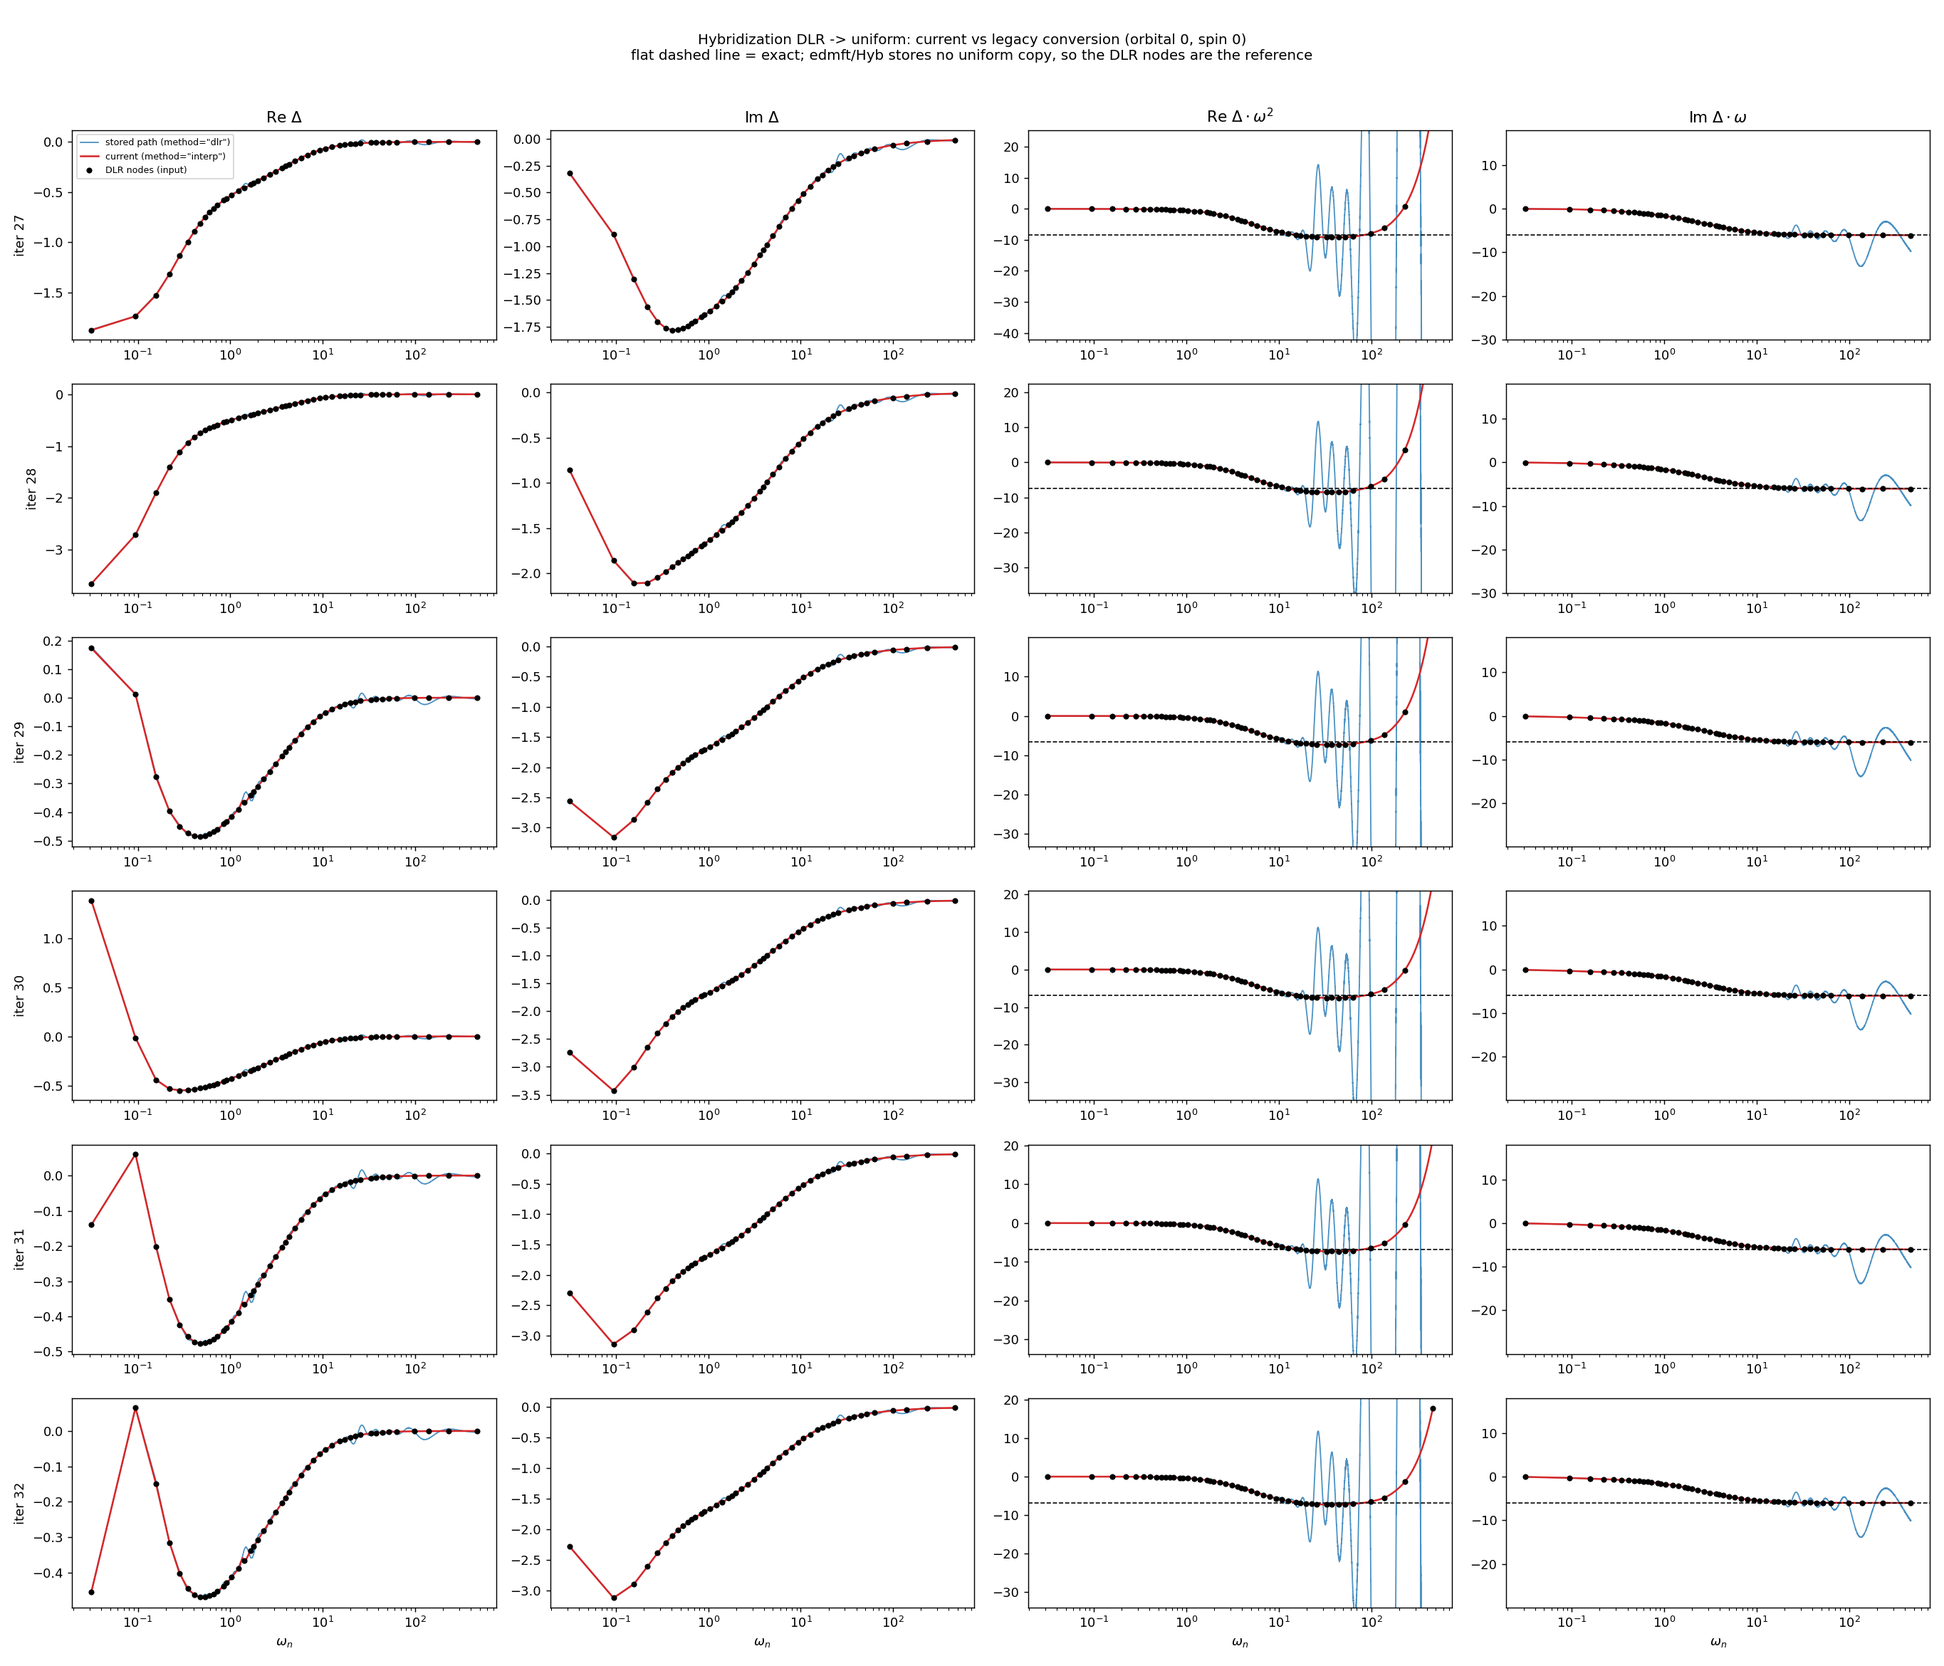
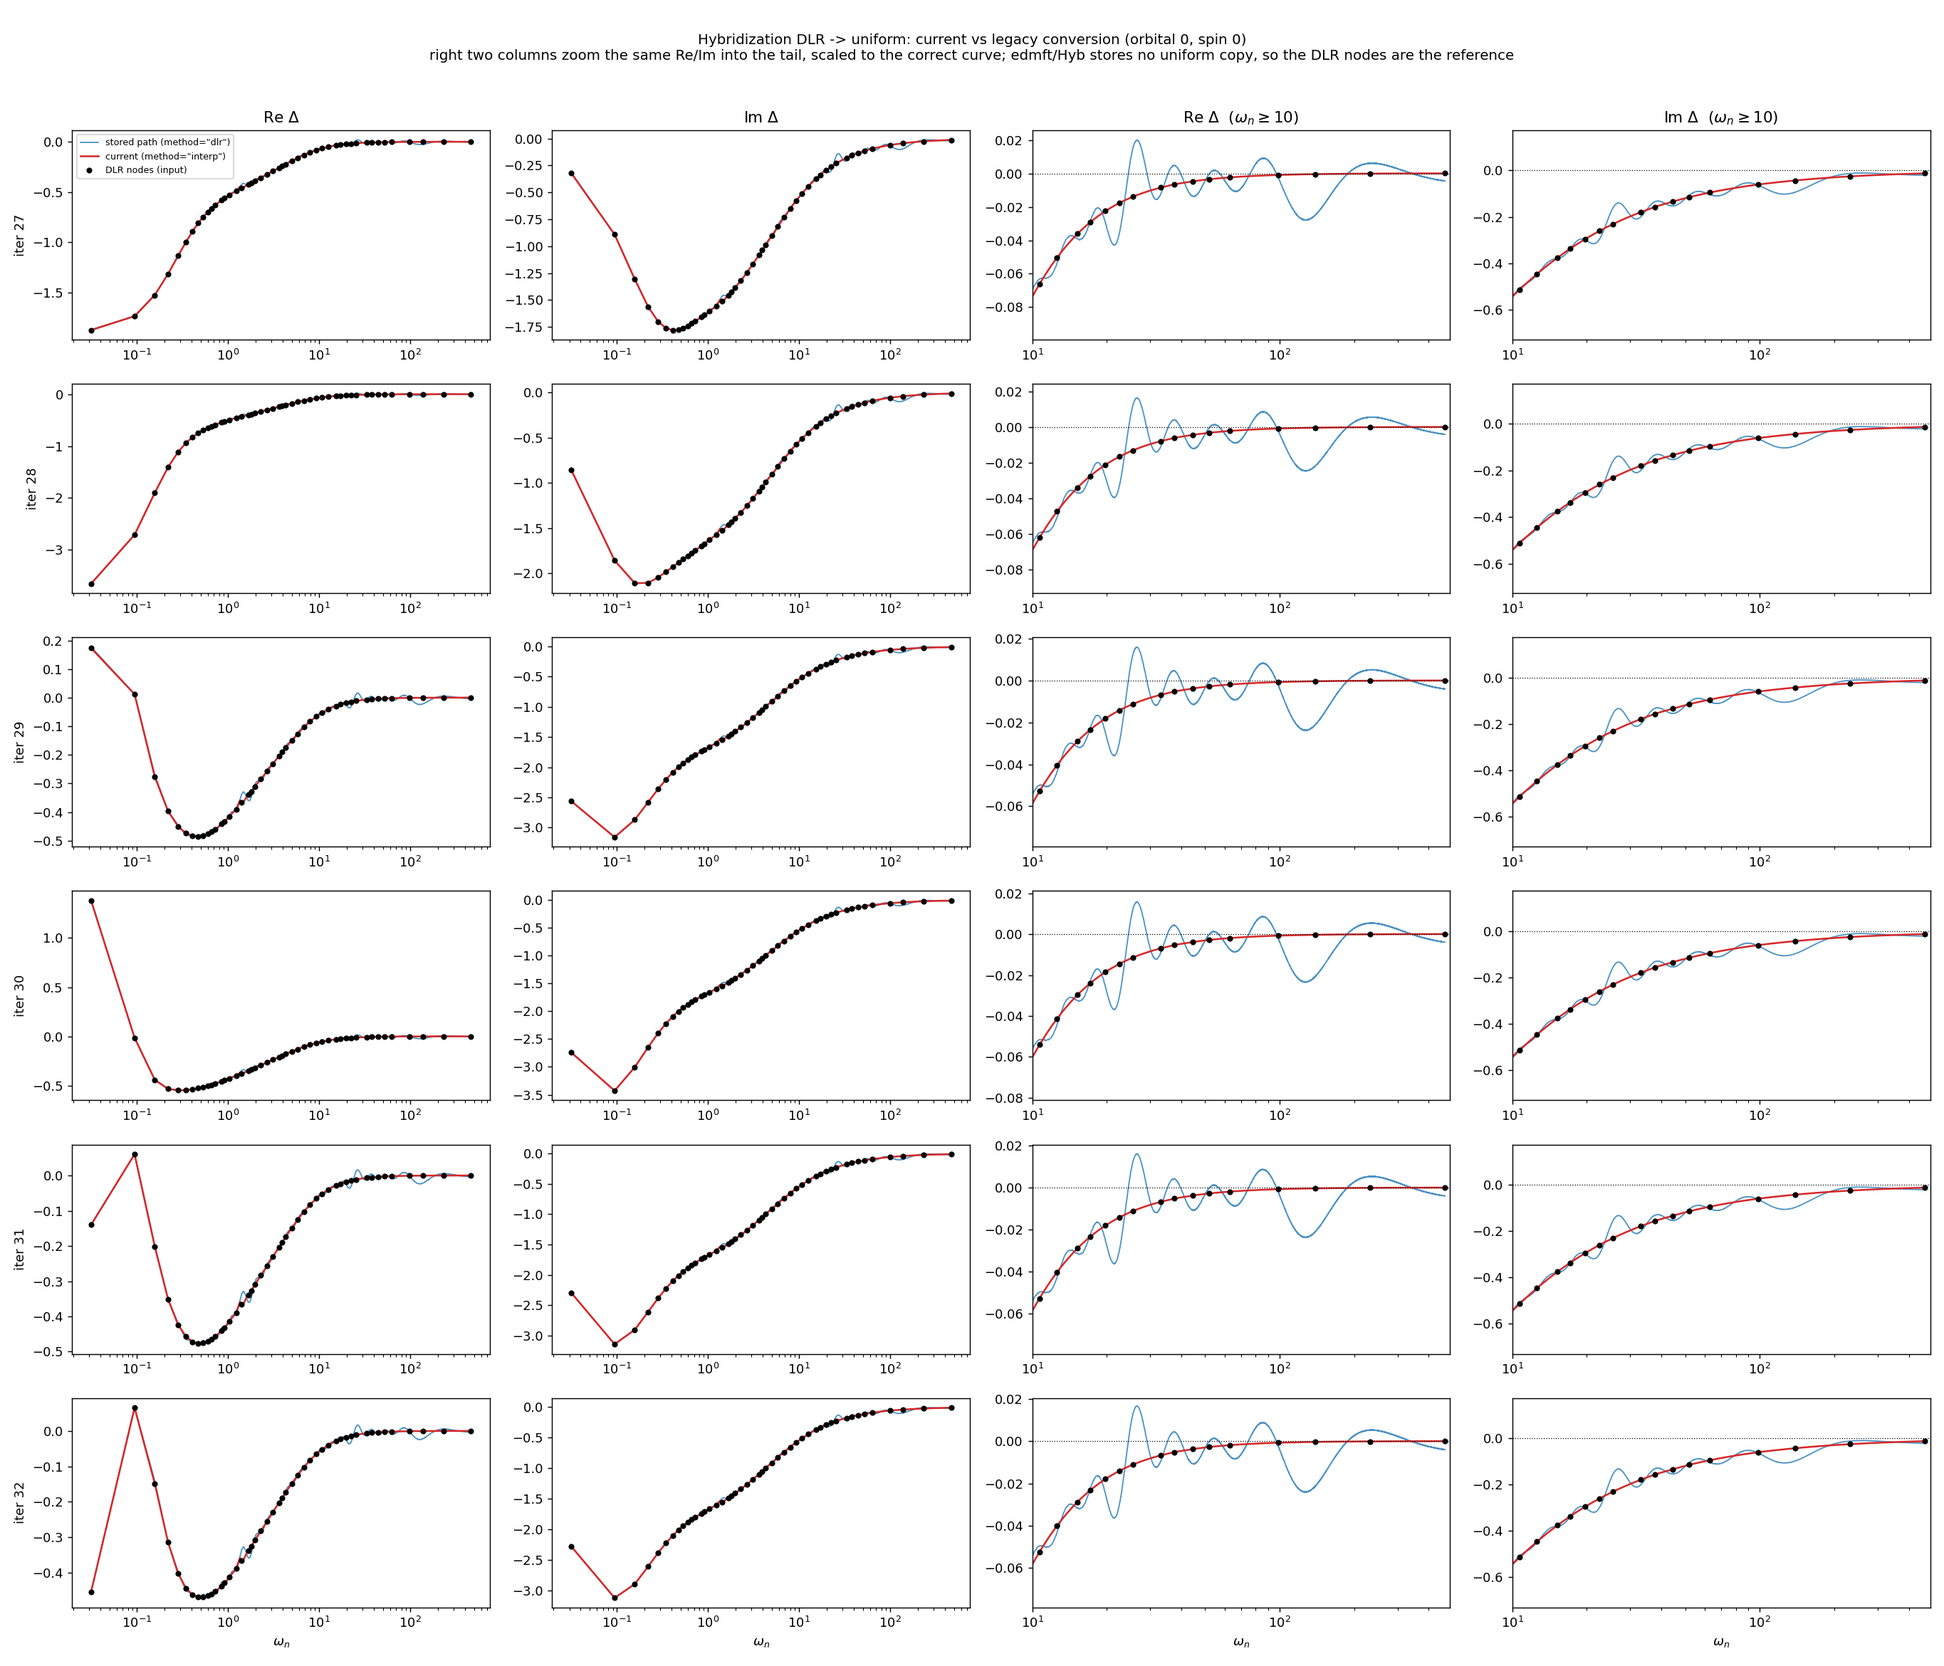
docs(dlr): plot DLR->uniform hybridization, current vs legacy conversion Adds plot_hyb_dlr_vs_uniform.py, which reads iterations 27-32 from glob.h5 and converts the DLR-grid hybridization onto the uniform grid with both method=interp (current) and method=dlr (legacy), overlaying the DLR nodes both a

diff --git a/docs/plot_hyb_dlr_vs_uniform.py b/docs/plot_hyb_dlr_vs_uniform.py
@@ -6,11 +6,11 @@ DLR-grid hybridization onto the uniform Matsubara grid with the current
 implementation (``method="interp"``) and with the legacy path
 (``method="dlr"``), overlaying the DLR nodes that both are built from.
 
-Real and imaginary parts are both plotted, in two forms:
-
-* raw ``Re/Im Delta`` on a log frequency axis;
-* the tail-compensated products ``Re Delta * w**2`` and ``Im Delta * w``, which
-  are constants for a decaying hybridization, so any structure is error.
+Real and imaginary parts are both plotted twice: over the full frequency range,
+and zoomed into the tail (``--zoom``, default w >= 10).  The zoomed axes are
+scaled to the corrected curve, so the legacy excursions leave the panel rather
+than compressing the signal into a flat line -- past w ~ 20 the legacy error
+(Re 2.7e-2) is larger than Re(Delta) itself (1.8e-2).
 
 ``edmft/Hyb`` stores **no** ``_uniform`` datasets, so the honest reference is
 the DLR nodes themselves -- the input both paths must reproduce. Where a stored
@@ -68,6 +68,8 @@ def main():
     ap.add_argument("--spin", type=int, default=0)
     ap.add_argument("--with-sigma", action="store_true",
                     help="also compare against stored sigimp *_uniform data")
+    ap.add_argument("--zoom", type=float, default=10.0,
+                    help="lower frequency bound for the zoomed Re/Im panels")
     ap.add_argument("--out", default=os.path.join(_REPO, "docs", "hyb_dlr_vs_uniform.png"))
     ap.add_argument("--out-sigma",
                     default=os.path.join(_REPO, "docs", "sigma_stored_vs_current.png"))
@@ -112,16 +114,17 @@ def main():
         n = len(rows)
         fig, axes = plt.subplots(n, 4, figsize=(21, 3.0 * n), squeeze=False)
 
+        # Columns 1-2 are the full range; 3-4 zoom the same Re/Im into the high
+        # frequency region.  Beyond w~20 the legacy error (Re 2.7e-2) exceeds the
+        # signal itself (Re 1.8e-2), which the full-range axes cannot show.
         for r, (it, node, new, old) in enumerate(rows):
             panels = [
                 ("Re $\\Delta$", new.real, old.real, node.real, None),
                 ("Im $\\Delta$", new.imag, old.imag, node.imag, None),
-                ("Re $\\Delta\\cdot\\omega^2$",
-                 new.real * w_uni**2, old.real * w_uni**2,
-                 node.real * w_node**2, "const"),
-                ("Im $\\Delta\\cdot\\omega$",
-                 new.imag * w_uni, old.imag * w_uni,
-                 node.imag * w_node, "const"),
+                (f"Re $\\Delta$  ($\\omega_n \\geq {args.zoom:g}$)",
+                 new.real, old.real, node.real, "zoom"),
+                (f"Im $\\Delta$  ($\\omega_n \\geq {args.zoom:g}$)",
+                 new.imag, old.imag, node.imag, "zoom"),
             ]
             for c, (title, yn, yo, ynode, mode) in enumerate(panels):
                 ax = axes[r][c]
@@ -136,10 +139,17 @@ def main():
                     ax.set_title(title)
                 if c == 0:
                     ax.set_ylabel(f"iter {it}")
-                if mode == "const":
-                    ref = float(np.median(ynode[pos][-8:]))
-                    ax.axhline(ref, color="k", ls="--", lw=0.9)
-                    ax.set_ylim(ref - 4 * abs(ref), ref + 4 * abs(ref))
+                if mode == "zoom":
+                    ax.set_xlim(args.zoom, w_uni.max() * 1.05)
+                    # Scale to the *correct* curve plus its nodes, so the legacy
+                    # excursions run off-panel instead of flattening the signal.
+                    m = w_uni >= args.zoom
+                    mn = (w_node >= args.zoom) & pos
+                    ref = np.concatenate([yn[m], ynode[mn]])
+                    lo, hi = float(ref.min()), float(ref.max())
+                    pad = 0.35 * max(hi - lo, 1.0e-12)
+                    ax.set_ylim(lo - pad, hi + pad)
+                    ax.axhline(0.0, color="k", ls=":", lw=0.7)
                 if r == n - 1:
                     ax.set_xlabel(r"$\omega_n$")
                 if r == 0 and c == 0:
@@ -148,8 +158,9 @@ def main():
         fig.suptitle(
             "Hybridization DLR -> uniform: current vs legacy conversion "
             f"(orbital {io}, spin {so})\n"
-            "flat dashed line = exact; edmft/Hyb stores no uniform copy, so the "
-            "DLR nodes are the reference",
+            "right two columns zoom the same Re/Im into the tail, scaled to the "
+            "correct curve; edmft/Hyb stores no uniform copy, so the DLR nodes "
+            "are the reference",
             fontsize=11,
         )
         fig.tight_layout(rect=(0, 0, 1, 0.97))

diff --git a/docs/DLR2Uniform_fix_report.md b/docs/DLR2Uniform_fix_report.md
@@ -1,0 +1,216 @@
+# DLR→uniform Matsubara 변환 수정 보고서
+
+**대상 브랜치:** `DLR_GW_EDMFT`
+**커밋 범위:** `d135cf1` … `83bb232` (4개)
+**작성일:** 2026-07-28
+
+---
+
+## 1. 문제
+
+`ctqmc/impurity_32_1/hyb.json`의 hybridization 실수부가 고주파에서 0으로 수렴하지
+않았다.
+
+| 항목 | 관측 | 정확값 |
+|---|---|---|
+| `Im Δ·ω` | -6.04로 수렴 | -6.04 (정상) |
+| `Re Δ` (ω≈187) | 부호 반전, +2.4e-4까지 상승 | 음수 |
+| `Re Δ` (ω=460) | +1.3e-4 잔류 | `-7.64/ω² = -3.6e-5` |
+
+---
+
+## 2. 원인 규명
+
+### 2.1 입력 데이터는 정상이었다
+
+`glob.h5`에 저장된 `GLoc`, `EImp`, `SigCImp`, `SigHImp`, `SigFImp`로 Dyson 식을
+직접 재구성해 DLR 노드에서의 raw Δ를 얻었다.
+
+```
+Re Δ·ω²  =  -7.43  -7.38  -7.52  -7.55  -7.58  -7.62  -7.74  -7.64  -7.77
+            (ω = 33 … 464, 정확값 -7.64인 상수)
+```
+
+노드는 깨끗하다. **오염은 상류가 아니다.**
+
+### 2.2 변환 자체가 원인
+
+그 *깨끗한 배열*을 `MatsubaraDLR2UniformGrid`에 그대로 넣었을 때:
+
+```
+Re Δ·ω²  =  -1.2   +344   +3538   -1328   -895   +6280   +10475
+            (ω = 50 … 460)
+```
+
+3자릿수 오차가 **변환 단계에서만** 주입된다.
+
+기전은 노드→계수 LU 해에서의 catastrophic cancellation이다. 계수 노름이
+`sum|c| = 6.0e+14`까지 폭발하고, 상쇄 후 남은 반올림 잡음이 결과를 지배한다.
+그 결과 변환은 **자기 입력 노드조차 재현하지 못한다** — 실데이터 기준 노드 오차
+3.12, ω=138.89에서 실제 값 2.8e-4가 부호까지 뒤집힌다.
+
+> **주의할 지표:** `cond(dlrmf2cf) = 8.91e+05`는 낮아 보이지만 이는 재스케일된
+> 다른 계이며 정확도를 지배하지 않는다. 이 숫자로 LU 경로가 건전하다고 결론
+> 내리면 안 된다. DLR로 정확히 표현 가능한 입력에서 계수 복원 상대오차는 **0.999**
+> (복원 `sum|c|` 19725 vs 참값 75)였다.
+
+### 2.3 하류 전파 경로
+
+```
+Hyb.Cal  →  UniformGrid()  →  CausalProjection(grid="uniform")
+             (깨진 변환)         └─ tail fit 창 = 상위 1 decade
+```
+
+`Fourier._tail_fit_indices`가 고르는 창을 측정하니 **[46.46, 464.61]** — 손상
+구간 전체와 정확히 겹친다. 여기서 fit된 상수항 `c0`가 0 대신 ~+1.2e-4로 나오고,
+projector가 이를 결과에 상수 offset으로 재삽입한다. 해당 구간 `Re Δ`는 3.6e-5라
+압도당하고, `Im Δ`는 1e-2라 상대적으로 살아남았다.
+
+---
+
+## 3. 수정 내용
+
+### 3.1 방식
+
+DLR 계수를 **전혀 만들지 않고** 노드값에서 uniform grid로 직접 보간한다.
+
+1. **Hermitian folding** — `f(-ω) = conj(f(ω))`로 음수 노드를 양수축에 반사
+2. **변수 변환** — `u = 1/ω` (tail이 이 변수에서 저차 다항식)
+3. **Re/Im 독립 보간** — 실수부·허수부를 분리해 각각 cubic spline
+
+### 3.2 folding이 필수인 이유
+
+양수 노드만 쓰는 것은 틀린다. `MatsubaraFermionUniform`이 grid 크기를 **부호 있는**
+극값에서 정하기 때문에([DLR.py:50](../src/QAssemble/utility/DLR.py#L50)), uniform grid가
+최대 양수 노드를 넘어갈 수 있다.
+
+| beta/cutoff | 최대 양수 노드 | uniform 최대 | 외삽 |
+|---|---|---|---|
+| 100/300 (프로덕션) | 464.610 | 464.610 | 없음 |
+| **20/8 (테스트 fixture)** | 6.440 | 11.153 | **73% 초과** |
+| 10/10 | 11.624 | 19.164 | 발생 |
+| 200/400 | 300.886 | 564.214 | 발생 |
+
+**5개 중 4개가 외삽**하며 프로덕션이 예외다. `np.interp`는 clamp하므로 양수 전용
+구현은 조용히 평평한 직선을 반환한다. folding은 관계식이 오차 0.00e+00으로
+정확히 성립하며, 커버리지를 복원하고 사용 가능 노드를 47→81로 늘린다.
+
+folding은 **래퍼에서** 수행한다. 행렬 값 관계는 `G(-iω) = G(iω)†`(켤레 + 전치)인데
+평탄화된 코어에는 궤도축이 없어 전치가 불가능하기 때문이다.
+
+### 3.3 API
+
+```python
+MatsubaraDLR2UniformGrid(ff, sign=-1, method="interp")   # 기본값
+MatsubaraDLR2Uniform(ff, sign=-1, method="dlr")          # 기존 경로 유지
+```
+
+`method="dlr"`을 남긴 이유는 **잘 조건화된 설정에서는 기존 경로가 여전히
+기계정밀도로 정확**하기 때문이다(테스트 fixture cond 2.5e+12 vs 프로덕션 3.0e+17).
+삭제가 아니라 보존이 옳은 판단이었다.
+
+### 3.4 변경하지 않은 것
+
+`Fourier._tail_fit_indices`는 **의도적으로 손대지 않았다.** 창이 잘못 고른 게
+아니라 손상된 값을 읽고 있었을 뿐이다. 변환이 고쳐지면 같은 창이 정상 데이터를
+fit한다.
+
+---
+
+## 4. 검증 결과
+
+### 4.1 실데이터 (iterations 27–32, tail window [46, 231])
+
+| iter | 기존 `Re Δ·ω²` 범위 | 현재 `Re Δ·ω²` 범위 | 노드오차 기존/현재 |
+|---|---|---|---|
+| 27 | [-485.1, +330.3] | [-9.17, +0.81] | 7.6e-02 / 2e-16 |
+| 28 | [-426.6, +302.4] | [-8.46, +3.54] | 7.5e-02 / 5e-16 |
+| 29 | [-411.7, +278.2] | [-7.32, +0.98] | 7.9e-02 / 4e-16 |
+| 30 | [-405.8, +292.4] | [-7.54, -0.18] | 7.9e-02 / 4e-16 |
+| 31 | [-409.3, +288.2] | [-7.30, -0.43] | 7.9e-02 / 4e-16 |
+| 32 | [-416.8, +284.4] | [-7.29, -1.34] | 7.9e-02 / 4e-16 |
+
+정확값은 **-7.64 상수**. 현재 경로는 노드를 **기계정밀도**로 통과한다.
+
+### 4.2 새로 드러난 사실 — `Im`도 오염되어 있었다
+
+노드 재현 오차를 Re/Im으로 분리하면:
+
+| | 기존 Re | 기존 Im | 현재 Re | 현재 Im |
+|---|---|---|---|---|
+| 최악값 (27–32) | 3.7e-02 | **7.6e-02** | 2.2e-16 | 4.4e-16 |
+
+**`Im`의 절대 오차가 `Re`보다 2배 이상 컸다.** 원래 진단에서 "Im은 무사"로 본 것은
+`Im Δ` 자체가 1e-2로 커서 상대적으로 가려졌기 때문이다. 초기 판단을 이 지점에서
+정정한다.
+
+### 4.3 테스트
+
+```
+255 passed, 2 failed
+```
+
+실패 2건은 `test_method_impurity_action.py`의 기존 실패로 이번 변경과 무관하다
+(baseline 247 passed + 동일한 2 failed). 신규 테스트 8건 추가.
+
+보손 출력은 모든 `method` 값에서 **bit-identical**(`max diff: 0.0`)로 확인했다.
+
+---
+
+## 5. 커밋 구성
+
+| 커밋 | 내용 |
+|---|---|
+| `d135cf1` | `_interp_to_grid`에 `variable`/`kind` 추가(기본값은 기존 동작 보존), `_fold_to_nonnegative` 헬퍼. 순수 추가 |
+| `6b2e99f` | `method="interp"` 기본 전환 + 신규 테스트 8건 |
+| `8df8b6e` | 진단 스크립트에 출시 경로 추가 |
+| `83bb232` | Re/Im 비교 plot 스크립트 + 그림 2장 |
+
+총 8 files, +1199 / -17.
+
+---
+
+## 6. 남은 작업
+
+### 6.1 보손 경로 (우선순위 높음)
+
+- **조건수 3.22e+18** — 페르미온(2.96e+17)보다 나쁘다
+- 현재 bit-identical로 **미수정 상태**
+- `ν=0`이 노드·uniform grid 양쪽에 실재해 `1/ω`가 발산 → 시프트 변수
+  `1/(ω+ω₀)`, `ω₀=2π/beta` 필요
+- 영향 경로: `BWeiss.Cal`([BLocDyn.py:1274](../src/QAssemble/BLocDyn.py#L1274)),
+  `Chi.Cal`(:972), `PImp.Mixing`(:1151), `WImp.Cal`(:1398)
+- **`dyn.json`이 CTQMC 입력이므로 solver 입력이 바뀐다** — 진단 필요
+
+### 6.2 회귀 방어의 한계
+
+신규 테스트는 합성 데이터(DLR로 정확히 표현 가능한 다중극)에서는 **기존 경로도
+통과한다.** 실제 판별력은 `glob.h5`의 진짜 self-energy에서만 나온다(노드오차
+3.12 vs 0.03). 실데이터 회귀를 막으려면
+[docs/compare_dlr2uniform.py](compare_dlr2uniform.py)를 CI에 넣는 것이 확실하다.
+
+### 6.3 검토 대상
+
+- `constraint_tol="auto"` 분기([FLocDyn.py:1364](../src/QAssemble/FLocDyn.py#L1364),
+  [BLocDyn.py:1279](../src/QAssemble/BLocDyn.py#L1279)) — 두 주석 모두 "보간 잡음이
+  1e-8 기본값을 초과"를 근거로 든다. 정확도가 크게 개선됐으므로 이제 불필요하게
+  느슨할 수 있다
+- `eps=1e-15` 기본값([DLR.py:21](../src/QAssemble/utility/DLR.py#L21)) — rank 95와
+  1e17 조건수를 만드는 원인. 이번 버그의 우회책이 아니라 **독립적 설계 결정**으로
+  재검토할 가치가 있다
+
+---
+
+## 7. 산출물
+
+| 파일 | 용도 |
+|---|---|
+| [compare_dlr2uniform.py](compare_dlr2uniform.py) | 재구성 방식별 점수화 (`--iters 27-32 --tail 46,231`) |
+| [plot_hyb_dlr_vs_uniform.py](plot_hyb_dlr_vs_uniform.py) | Re/Im 비교 plot (`--with-sigma`) |
+| [dlr2uniform_compare.png](dlr2uniform_compare.png) | 방식별 tail 비교 |
+| [hyb_dlr_vs_uniform.png](hyb_dlr_vs_uniform.png) | hybridization 6 iteration × 4 패널 |
+| [sigma_stored_vs_current.png](sigma_stored_vs_current.png) | 저장된 uniform vs 현재 변환 |
+
+> `edmft/Hyb`에는 `_uniform` 데이터셋이 없어 hybridization의 기준은 DLR 노드다.
+> 저장본과의 직접 비교가 가능한 곳은 `edmft/SigCImp/*_uniform`뿐이며, 이는 옛
+> 코드가 같은 깨진 변환을 거쳐 실제로 기록한 데이터다.
